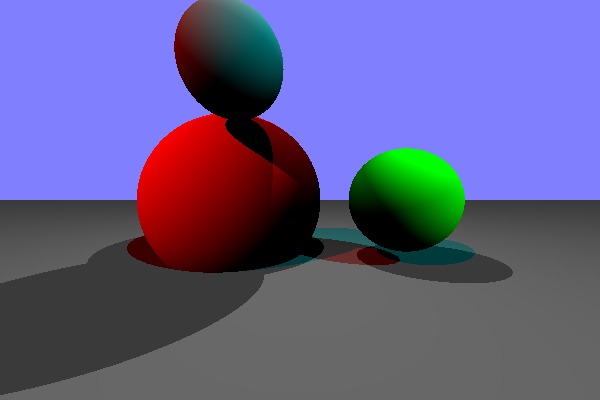
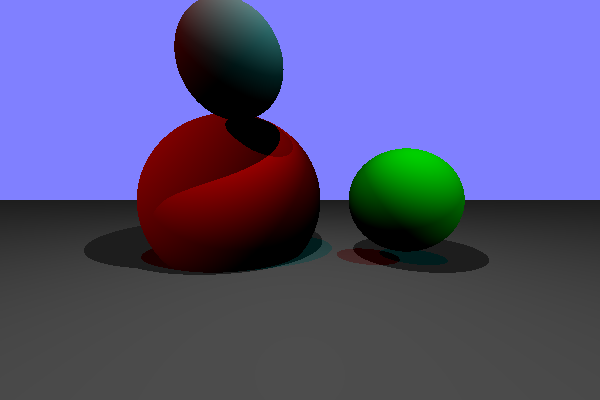
fixed lighting

diff --git a/src/scene.rs b/src/scene.rs
@@ -86,16 +86,20 @@ impl Scene {
 
         for light in self.lights.iter() {
             let direction_to_light = light.get_direction_to_light(&hit_point);
+            let direction_to_light_norm = direction_to_light.normalize();
 
             // calculate if the point is a shadow
             let shadow_ray = Ray::from(
                 hit_point.clone() + (surface_normal.factor(SHADOW_BIAS)),
-                direction_to_light.clone()
+                direction_to_light_norm.clone()
             );
-            let in_light = self.trace(&shadow_ray).is_none();
+
+            let shadow_intersection = self.trace(&shadow_ray);
+            let in_light = shadow_intersection.is_none() ||
+                shadow_intersection.unwrap().get_distance() > direction_to_light.euclidian_distance();;
 
             let light_intensity = if in_light {surface_normal.normalize()
-                .dot(&direction_to_light.normalize())
+                .dot(&direction_to_light_norm)
                 .max(0.0) * light.get_intensity(&hit_point)} else {0.0};
             let light_reflected = 1.0; // todo: implementiraj
 

diff --git a/src/main.rs b/src/main.rs
@@ -37,19 +37,19 @@ fn main() {
         DirectionalLight::new(
             Vector::new(1.0, -1.0, -1.0),
             Color::new(255,0, 0),
-            1.0
+            0.5
         )
     ));
     scene.add_light(Box::new(
         DirectionalLight::new(
             Vector::new(-1.0, -1.0, -1.0),
             Color::new(0,255, 255),
-            1.0
+            0.5
         )
     ));
     scene.add_light(Box::new(
        SphericalLight::new(
-           Vector::new(0.0, 9.0, -6.0),
+           Vector::new(0.0, 7.0, -3.0),
            Color::new(255, 255, 255),
            6.0
        )

diff --git a/src/lighting/spherical.rs b/src/lighting/spherical.rs
@@ -31,6 +31,6 @@ impl Lighting for SphericalLight {
     }
 
     fn get_direction_to_light(&self, hit_point: &Vector) -> Vector {
-        self.position.minus(hit_point).normalize()
+        self.position.minus(hit_point)
     }
 }

diff --git a/src/lighting/directional.rs b/src/lighting/directional.rs
@@ -33,6 +33,6 @@ impl Lighting for DirectionalLight {
     }
 
     fn get_direction_to_light(&self, _hit_point: &Vector) -> Vector {
-        self.direction.neg().normalize()
+        self.direction.neg()
     }
 }
